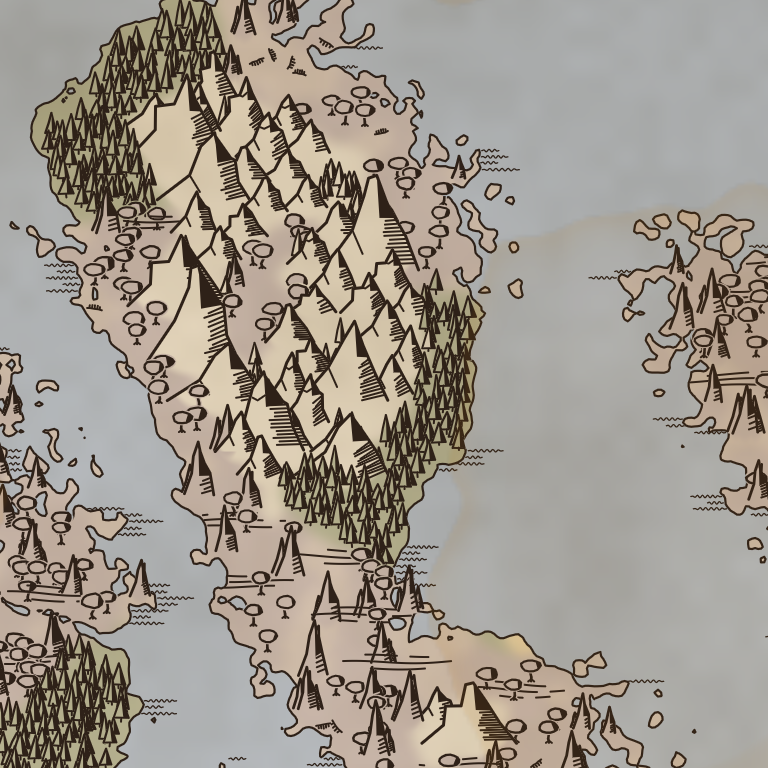
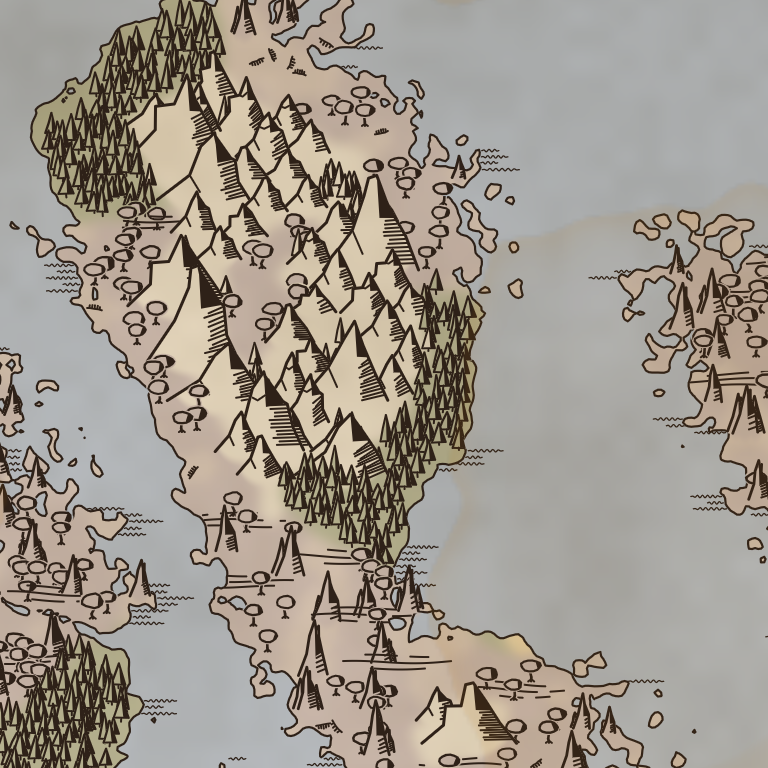
Keep Mistlands crags off the mountain peaks
Where the Mountains meet the Mistlands, crags and peaks both stand on the same
steep ground, so crags were drawn among the peaks with their rock, wedge and
hatching laid across the peaks' bodies. A crag whose drawn shape overlaps a peak's
is now left out.

diff --git a/src/Ink/InkPainter.cs b/src/Ink/InkPainter.cs
@@ -1761,6 +1761,25 @@ namespace Atlas
             }
         }
 
+        // Leaves out every Mistlands crag whose drawn shape overlaps a mountain peak's: where the
+        // Mountains meet the Mistlands both stand on the same steep ground, and a crag among the
+        // peaks lays its mauve rock, wedge and hatching across their bodies.
+        private void DropSpiresOnPeaks()
+        {
+            var peaks = new List<Vector4>();
+            foreach (Glyph g in m_glyphs)
+                if (g.m_kind == Kind.Peak) peaks.Add(GlyphBox(g));
+            if (peaks.Count == 0) return;
+            m_glyphs.RemoveAll(g =>
+            {
+                if (g.m_kind != Kind.Spire) return false;
+                Vector4 box = GlyphBox(g);
+                foreach (Vector4 p in peaks)
+                    if (box.x < p.z && p.x < box.z && box.y < p.w && p.y < box.w) return true;
+                return false;
+            });
+        }
+
         // Whether a filler spire at this foot would crowd a summit's.
         private bool NearSummitSpire(float x, float y, float width)
         {
@@ -2056,6 +2075,7 @@ namespace Atlas
                 if (!IsLandColumn(s.m_x, s.m_y, 22f * G)) return;
                 Add(s, Kind.Spire, G);
             });
+            DropSpiresOnPeaks();
             // Ashlands: smoking volcanoes on the heights, and clusters of jagged crags on the
             // broken ground between the lava fields.
             // Volcanoes keep a cone's width apart and clear of the coast, so they never overlap

diff --git a/CLAUDE.md b/CLAUDE.md
@@ -578,6 +578,9 @@ Stack, build, verification and git workflow are shared by all mods: see `../CLAU
   peaks' lower bodies.
   Its small inland pools stay water, every one with its own shore: filled in as ground, the
   Mistlands lost the many little lakes that are part of their look.
+  A crag whose drawn shape overlaps a mountain peak's is left out (`DropSpiresOnPeaks`): where
+  the Mountains meet the Mistlands both stand on the same steep ground, and crags among the
+  peaks laid their rock, wedge and hatching across the peaks' bodies.
   Crags (`Spire`) are pinnacles in the peaks' hand (`Pinnacle`: 0.45-0.62 of their height wide,
   jagged flanks, a ledge, some twin tips, a solid wedge down `SpireWedge` of the east face, a
   smaller one or two behind), on real summits (`PlaceSummitSpire`: highest within `SpireCells`,
